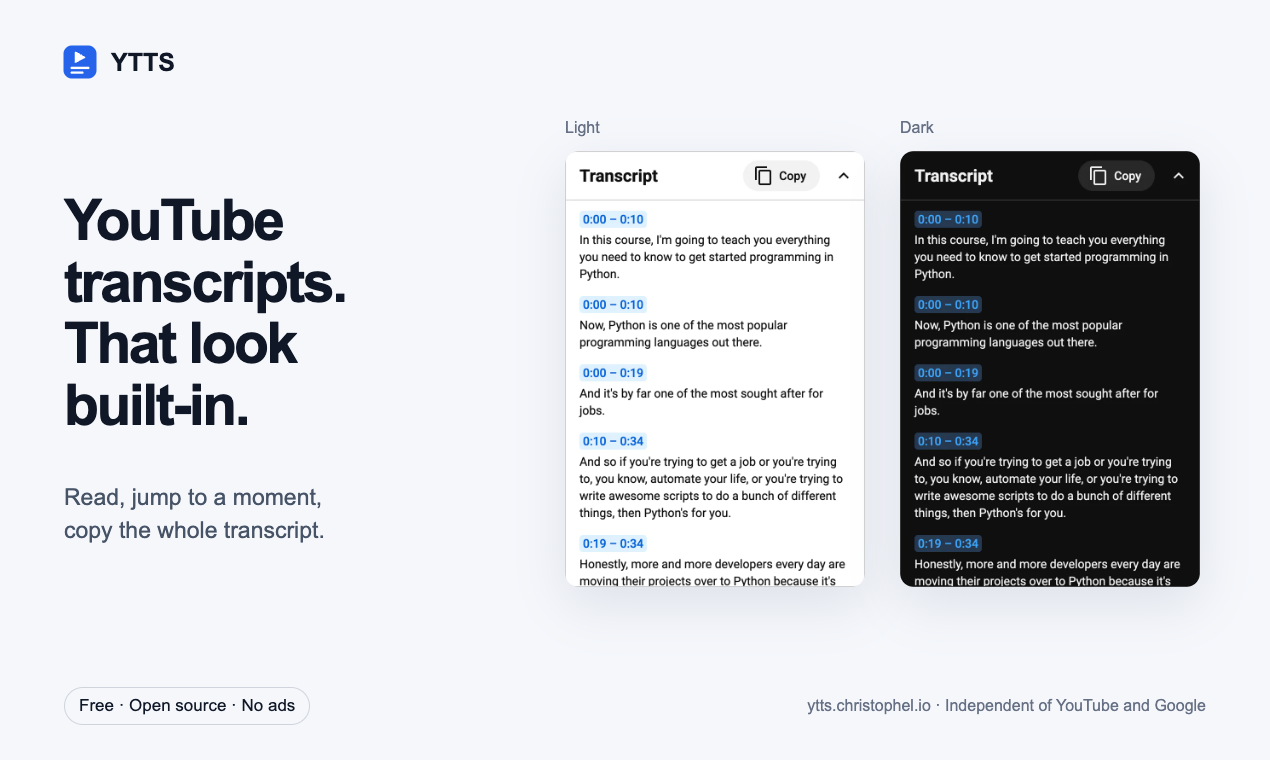
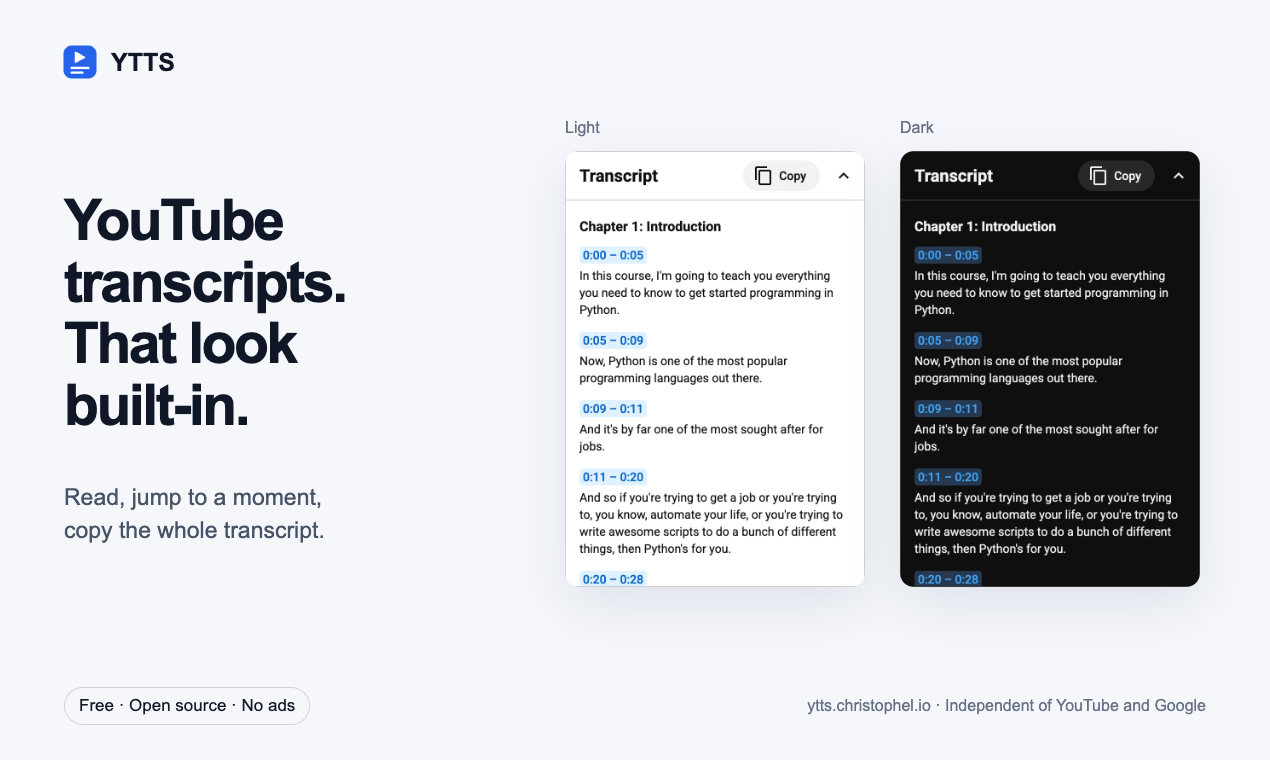
chore: refresh website card images and trim the launch kit (#50)
* chore: refresh website card images and trim the launch kit

- website/assets/card-*.webp showed the pre-0.2.0 card (repeated time ranges, no
  chapter heading); regenerated with the new 'npm run screenshot -- --site'.
- Launch kit: Product Hunt and Indie Hackers material removed; gallery image 01
  regenerated from the new card images.
- Edge descriptions: en.txt is now an Edge-specific source text and the other 20
  languages follow it sentence by sentence.

* chore: address review of #50

---------

Changed region(s): [[0.7063, 0.2724, 0.9213, 0.7868], [0.4299, 0.2724, 0.6756, 0.7868]]

diff --git a/docs/launch/README.md b/docs/launch/README.md
@@ -8,32 +8,23 @@ Before submitting, read them briefly yourself and adjust them if needed.
 
 | Platform | Material | Status | Public entry |
 | --- | --- | --- | --- |
-| Indie Hackers | [Product entry and first post](indie-hackers.md) | Product entry published on 12 November; start year 2026 confirmed. Community post prepared as text only | [YTTS](https://www.indiehackers.com/product/ytts) |
-| Product Hunt | [Fields and maker comment](product-hunt.md) | Scheduled on 12 November for 13 November 2026, 09:01 Berlin time (00:01 PT); live status not yet checked again | [Launch target](https://www.producthunt.com/products/ytts?launch=ytts) |
 | Show HN | [Key facts for your own text](show-hn-notes.md) | Facts prepared; post to be written by Marcel | — |
 | AlternativeTo | [Product entry and matching alternatives](alternativeto.md) | Submitted on 12 November with two matching alternatives to the free review queue; not yet public | — |
 | Reddit r/SideProject | [Post with demo](https://www.reddit.com/r/SideProject/comments/1xut1in/i_wanted_a_youtube_transcript_tool_that_actually/) | Submitted on 13 November with the approved text and English demo; removed by Reddit filters; manual approval requested from the moderators | Not yet regularly visible |
 | Microsoft Edge Add-ons | [Package, 21 descriptions, images and privacy](../store/edge/README.md) | Prepared locally; developer account setup and a real Edge test still open. No dashboard draft saved, not submitted | — |
 
 Each status was checked in the browser UI after publication or submission, respectively.
-Product Hunt confirmed the date on 12 November in the pre-launch dashboard as **Scheduled**.
 AlternativeTo showed **Your submission is waiting to be reviewed** on submission and pointed out
 that currently only the submitter can see the app. Check the status under
 [My submissions](https://alternativeto.net/my-submissions/); share the app link only after
 approval. A timely review is not guaranteed. No paid review was booked.
-
-`assets/01-native-themes.png` is built from the website's card images
-(`website/assets/card-*.webp`), which predate v0.2.0: it still shows repeated time ranges and
-no chapter heading. Regenerate it with `node scripts/launch-assets.mjs` once those images are
-replaced. `02-watch-page.png` and `03-preferences.png` were regenerated from the v0.2.0
-screenshots.
 
 ## Shared details
 
 | Field | Value |
 | --- | --- |
 | Name | YTTS |
-| Developer / Maker | Marcel Christophel |
+| Developer | Marcel Christophel |
 | Website and demo | https://ytts.christophel.io/ |
 | Chrome Web Store | https://chromewebstore.google.com/detail/ytts/ipkipmmdaicpfijcddghjpfjpacgdphe |
 | Source code | https://github.com/maphel/YTTS |
@@ -52,7 +43,6 @@ A video needs a transcript that is already available on YouTube. YTTS is indepen
 
 | File | Use |
 | --- | --- |
-| [icon-240.png](assets/icon-240.png) | Product Hunt logo, 240 × 240, transparent background |
 | [icon-512.png](assets/icon-512.png) | Larger icon for directories, 512 × 512 |
 | [01-native-themes.png](assets/01-native-themes.png) | Main image: real card in light and dark, 1270 × 760 |
 | [02-watch-page.png](assets/02-watch-page.png) | Real card on the YouTube page, 1270 × 760 |
@@ -66,7 +56,6 @@ show the English interface. Videos are not re-translated in this step or uploade
 another service. For an optional video field, first check which
 video hosts the platform in question accepts; the website already offers the demo directly.
 
-Gallery alt texts are listed with the [Product Hunt fields](product-hunt.md).
 For directories with little space, the icon and main image are enough.
 
 ## Before submitting
@@ -74,10 +63,9 @@ For directories with little space, the icon and main image are enough.
 1. Open the website and store link, play the demo.
 2. Sign in with your own personal account. Read the text once and confirm it.
 3. Use the prepared texts and images. Select **Free**, not Freemium.
-4. Choose the Product Hunt date so that there is time to reply to comments.
-5. Write the Show HN post yourself and submit it yourself; human-written texts and no
+4. Write the Show HN post yourself and submit it yourself; human-written texts and no
    automated publishing are the rule there.
-6. Afterwards, enter the public link here and respond to questions.
+5. Afterwards, enter the public link here and respond to questions.
 
 No paid placements or faster reviews are planned. These entries
 are mainly ways to gain users and feedback. A published link
@@ -86,7 +74,7 @@ Do not create 21 separate entries for the language versions: use the English mai
 
 ## Regenerating media
 
-With the existing development dependencies and Google Chrome installed:
+With the existing development dependencies (Playwright's Chromium):
 
 ```sh
 node scripts/launch-assets.mjs
@@ -98,10 +86,6 @@ not changed in the process.
 
 ## Platform rules checked
 
-- [Product Hunt: fields and media](https://help.producthunt.com/en/articles/17834537-4-build-your-product-page)
-  and [free launch](https://help.producthunt.com/en/articles/17734646-8-launch-faq-and-myths).
-- [Indie Hackers: product database](https://www.indiehackers.com/products),
-  [free basic use](https://www.indiehackers.com/terms).
 - [Show HN](https://news.ycombinator.com/showhn.html) and
   [HN guidelines](https://news.ycombinator.com/newsguidelines.html).
 - [AlternativeTo: submitting and queue](https://alternativeto.net/faq/),

diff --git a/AGENTS.md b/AGENTS.md
@@ -25,14 +25,14 @@ popup. Vanilla JavaScript classic scripts, no build step, no runtime dependencie
 | `scripts/locales.mjs` | Generates/verifies `_locales` from `i18n.js` |
 | `scripts/pack.mjs`, `release.mjs`, `changelog-section.mjs` | Release zip (git-tracked files of `extension/` only), two-step release, release notes |
 | `scripts/icons.mjs` | `npm run icons`: renders the PNG icons from `extension/icons/icon.svg` |
-| `scripts/screenshot.mjs` | `npm run screenshot [-- --store]`: README and store images from the real extension on youtube.com (card) and the popup harness |
+| `scripts/screenshot.mjs` | `npm run screenshot [-- --store | --site]`: README, store and website card images from the real extension on youtube.com (card) and the popup harness |
 | `.github/workflows/` | `check.yml` (lint, check, unit, e2e, pack artifact), `release.yml` (build with read-only token, publish job with write), `live.yml` (nightly canary, issue on failure) |
 | `.github/` templates, `dependabot.yml` | Bug report, security contact, PR checklist (definition of done); monthly updates (npm grouped, SHA-pinned actions) |
 | `package.json`, `eslint.config.js`, `.editorconfig`, `.gitignore` | Scripts and exact-pinned dev dependencies; lint rules (classic scripts in `extension/`, ESM elsewhere); editor settings |
 | `docs/screenshots/` | README images (card and popup, light and dark), generated by `npm run screenshot` |
 | `docs/store/` | Chrome Web Store listing texts, permission explanations, data-use recommendation and submission checklist (manual; no upload automation) |
 | `docs/store/edge/`, `scripts/edge-assets.mjs` | Microsoft Edge Add-ons preparation: 21 listing descriptions, Edge privacy policy, reviewer notes and a 440 × 280 vector-based promotional tile; manual account, browser test and submission remain separate |
-| `docs/launch/`, `scripts/launch-assets.mjs` | Community launch kit: listing copy and status for Indie Hackers, Product Hunt, AlternativeTo and Show HN notes; three 1270 × 760 gallery images and 240/512 px icons rendered from existing screenshots and the vector icon |
+| `docs/launch/`, `scripts/launch-assets.mjs` | Community launch kit: listing copy and status for AlternativeTo and Show HN notes; three 1270 × 760 gallery images and a 512 px icon rendered from existing screenshots and the vector icon |
 | `docs/store/screenshots/` | Store images (1280 × 800, 640 × 400, light and dark), generated by `npm run screenshot -- --store` |
 | `website/` | Static product website: translated copy for all 21 locales, styles, browser interactions, demo videos (landscape and portrait) and Cloudflare Workers static-asset configuration. `npm run site:build` generates ignored `website/dist/`; see `website/README.md` |
 | `scripts/build-website.mjs`, `tests/website.spec.mjs` | Generates the localized website, metadata, sitemap and headers; browser tests cover languages, responsive layouts, themes, demo and navigation |

diff --git a/website/README.md b/website/README.md
@@ -25,7 +25,8 @@ URL and reciprocal language alternates. `sitemap.xml` lists all 21 pages.
 - `copy/*.json`: translated page content, keyed by the extension's locale codes. Every locale
   must have exactly the keys of `en.json`; the build fails otherwise.
 - `styles.css`, `client.js`: theme toggle, language selection and in-place demo playback.
-- `assets/`: YTTS icon, the transcript card in light and dark (`card-*.webp`), the demo in
+- `assets/`: YTTS icon, the transcript card in light and dark (`card-*.webp`, generated by
+  `npm run screenshot -- --site` from the real extension on youtube.com), the demo in
   landscape (`demo.mp4`, 1920 × 1080) and portrait for phones (`demo-portrait.mp4`,
   1080 × 1350), their posters and the share image (`og.jpg`, 1200 × 630).
 - `dist/`: generated pages and copied assets; ignored by Git.

diff --git a/docs/store/edge/README.md b/docs/store/edge/README.md
@@ -135,10 +135,8 @@ certification. There is no assumed second manual go-live gate.
 
 ## Open items
 
-- **Descriptions differ by language.** `descriptions/en.txt` is the Chrome Web Store text and
-  does not mention Edge. Other languages name Microsoft Edge, and some add "free and open
-  source", "no ads" or the settings-sync sentence. All of these statements are true, but align
-  the 21 texts to one English source before submitting.
+- **Descriptions:** `descriptions/en.txt` is the source text; the other 20 files follow it
+  sentence by sentence. They were aligned by an agent and not checked by native speakers.
 - **Edge sideload check** (see above) and the saved dashboard draft.
 - **Privacy policy URL:** after this file is on `main`, open its public URL before using it in
   the listing.

diff --git a/README.md b/README.md
@@ -125,6 +125,7 @@ YouTube tab. Please read [Contributing](CONTRIBUTING.md) before making changes.
 ```sh
 npm run screenshot             # docs/screenshots/*.png for this README (needs youtube.com)
 npm run screenshot -- --store  # docs/store/screenshots/*.png for the Chrome Web Store
+npm run screenshot -- --site   # website/assets/card-*.webp for the product website
 ```
 
 ## License
